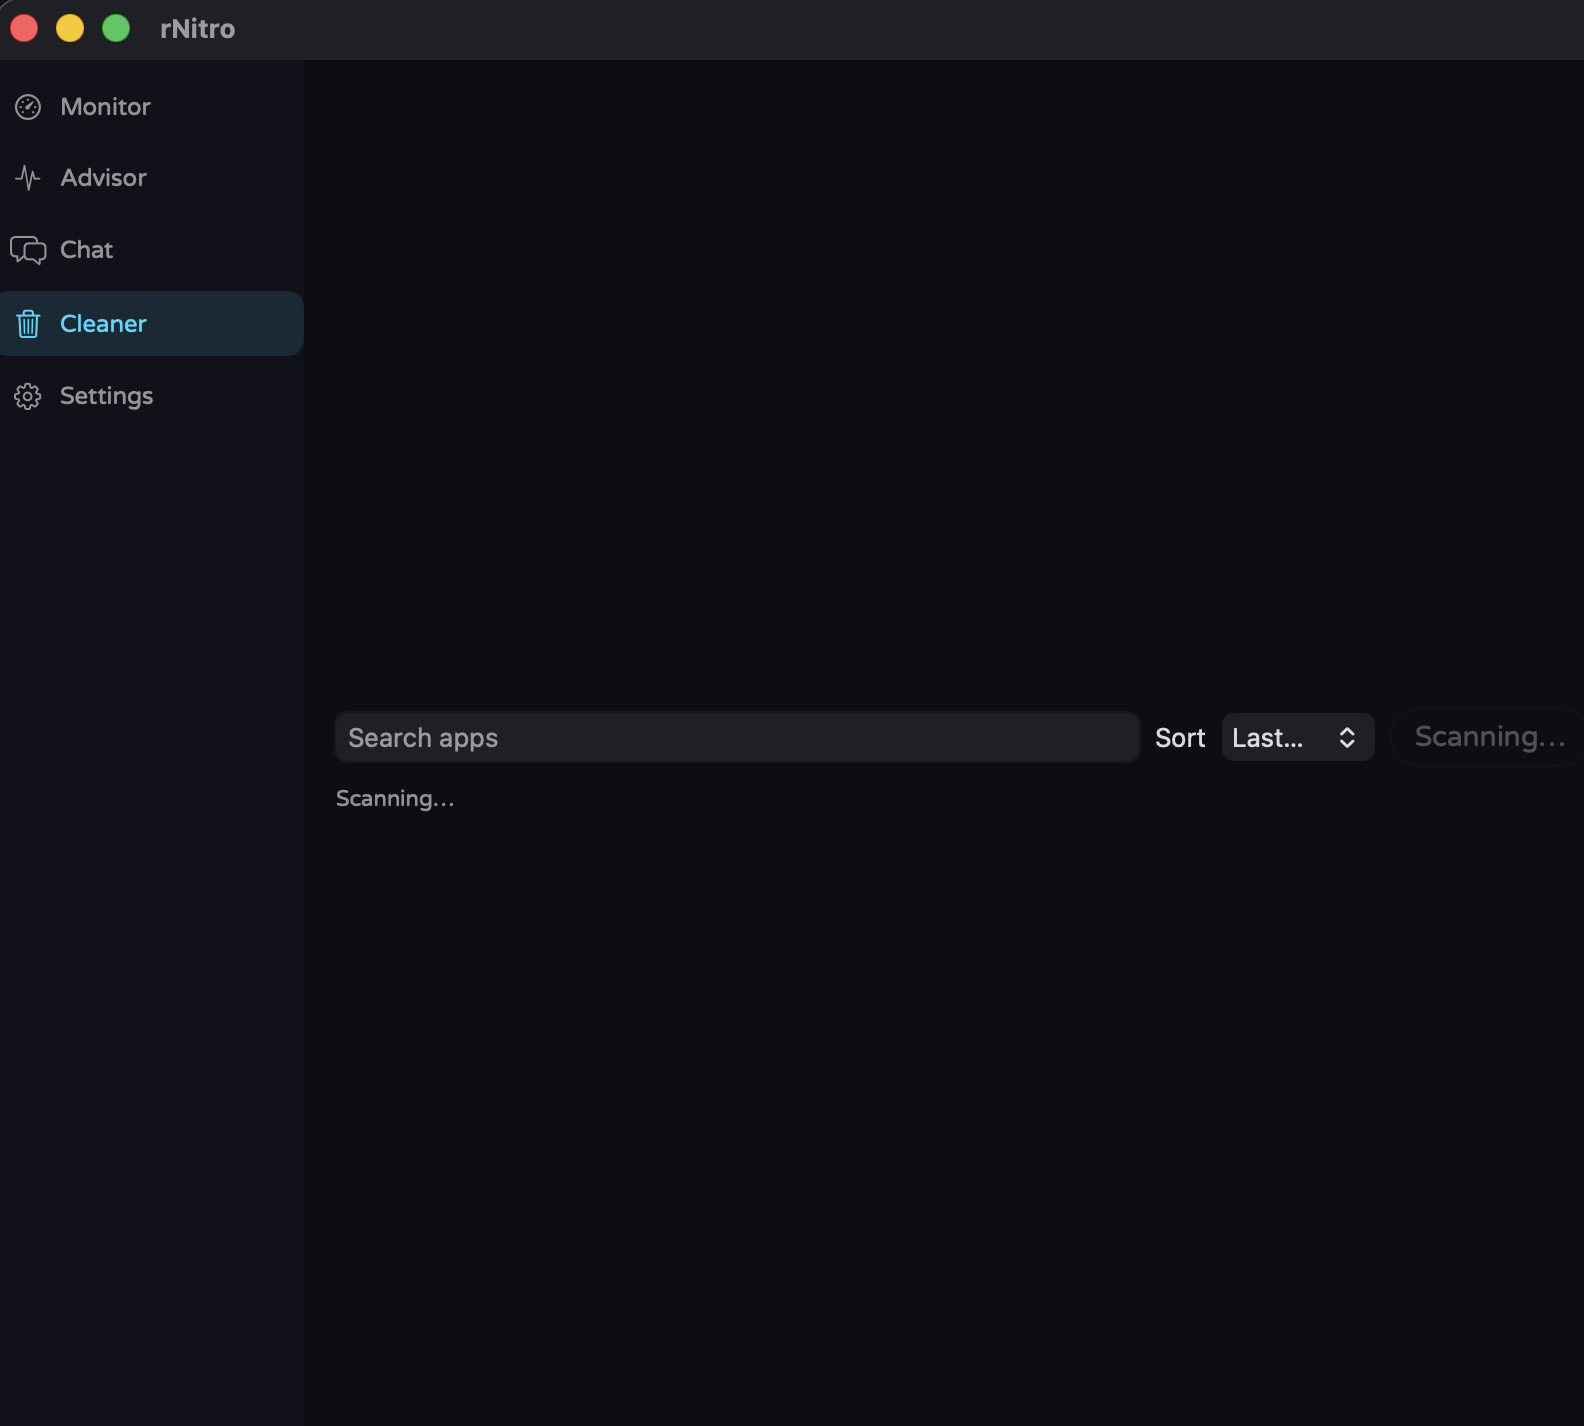
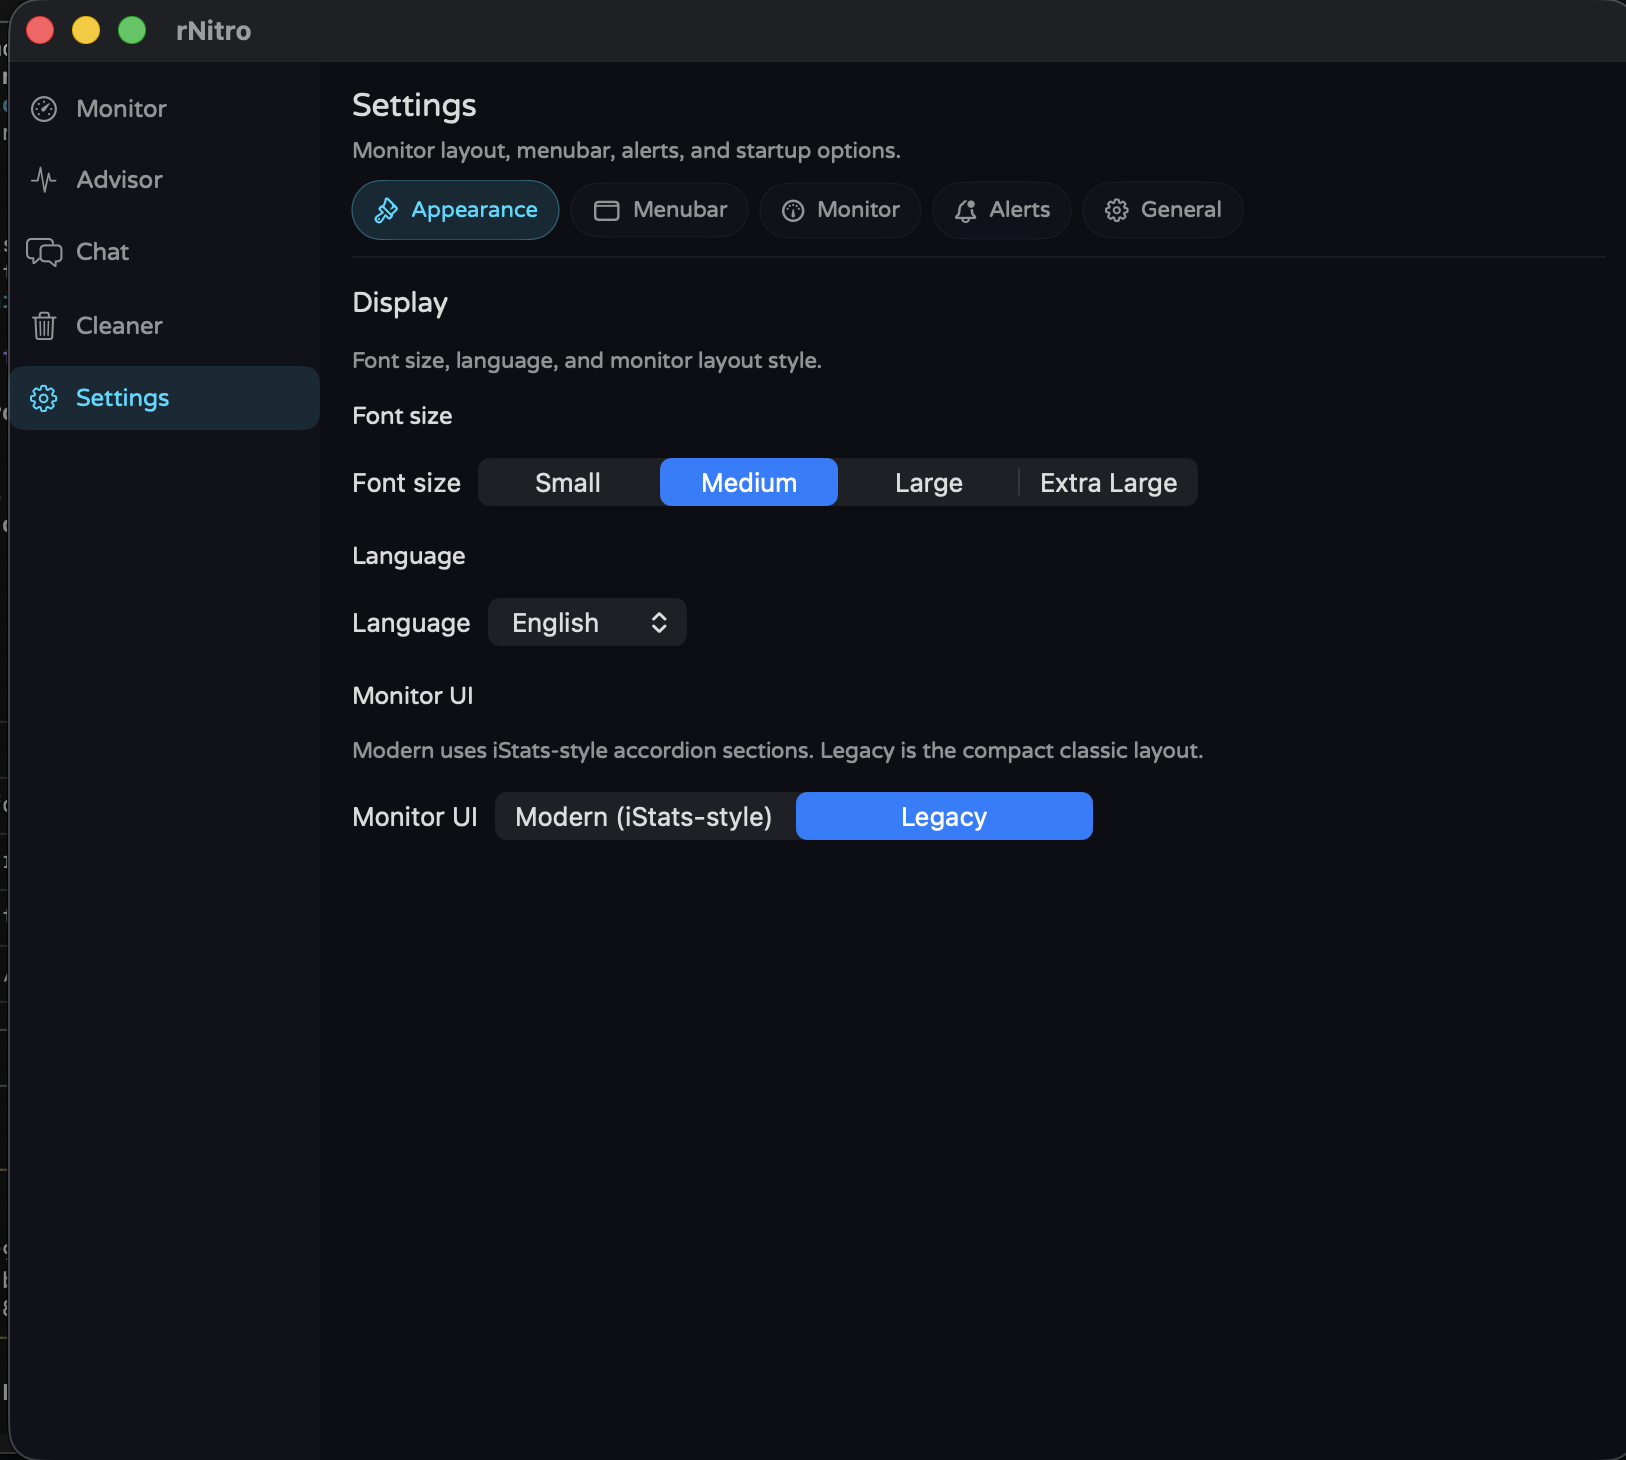
Fix screenshot labels: Advisor, Chat, Chat Config, App cleaner, Settings
Rename files to match UI content and update website + README captions.

diff --git a/index.html b/index.html
@@ -1419,31 +1419,31 @@
   <div class="shots">
     <p class="shots-kicker">macOS · Apple Silicon · Menu bar</p>
     <h2 class="shots-title">See rNitro on your Mac</h2>
-    <p class="shots-sub">Menu bar monitor with Advisors, Chat, Cleaner, Settings, and Benchmark — built for macOS 12+ on Apple Silicon.</p>
+    <p class="shots-sub">Menu bar monitor with Advisor, Chat, Chat Config, App cleaner, and Settings — built for macOS 12+ on Apple Silicon.</p>
     <figure class="shot-hero">
       <img src="screenshots/hero-monitor.png" alt="rNitro menu bar monitor showing CPU, temperature, memory, and battery" width="1200" height="800">
       <figcaption>Menu bar + Monitor — live CPU, temps, memory, battery, and more</figcaption>
     </figure>
     <div class="shot-grid">
       <figure class="shot-card">
-        <img src="screenshots/feature-advisors.png" alt="rNitro Advisors" loading="lazy" width="720" height="480">
-        <figcaption><strong>Advisors</strong> — System + AI advice with live stats</figcaption>
+        <img src="screenshots/feature-advisor.png" alt="rNitro Advisor" loading="lazy" width="720" height="480">
+        <figcaption><strong>Advisor</strong> — System Advisor with live stats and thresholds</figcaption>
       </figure>
       <figure class="shot-card">
         <img src="screenshots/feature-chat.png" alt="rNitro Chat" loading="lazy" width="720" height="480">
         <figcaption><strong>Chat</strong> — Bring-your-own AI providers</figcaption>
       </figure>
       <figure class="shot-card">
-        <img src="screenshots/feature-cleaner.png" alt="rNitro Cleaner" loading="lazy" width="720" height="480">
-        <figcaption><strong>Cleaner</strong> — Find large files and free space</figcaption>
+        <img src="screenshots/feature-chat-config.png" alt="rNitro Chat Config" loading="lazy" width="720" height="480">
+        <figcaption><strong>Chat Config</strong> — API keys and chat provider setup</figcaption>
+      </figure>
+      <figure class="shot-card">
+        <img src="screenshots/feature-app-cleaner.png" alt="rNitro App cleaner" loading="lazy" width="720" height="480">
+        <figcaption><strong>App cleaner</strong> — Find large files and free space</figcaption>
       </figure>
       <figure class="shot-card">
         <img src="screenshots/feature-settings.png" alt="rNitro Settings" loading="lazy" width="720" height="480">
-        <figcaption><strong>Settings</strong> — Appearance, alerts, general</figcaption>
-      </figure>
-      <figure class="shot-card">
-        <img src="screenshots/feature-benchmark.png" alt="rNitro Benchmark" loading="lazy" width="720" height="480">
-        <figcaption><strong>Benchmark</strong> — CPU score + stress test</figcaption>
+        <figcaption><strong>Settings</strong> — Appearance, menubar, alerts, general</figcaption>
       </figure>
     </div>
   </div>

diff --git a/sync-versions.py b/sync-versions.py
@@ -1267,11 +1267,11 @@ def js_settab_handlers() -> str:
 def screenshots_section(data: dict) -> str:
     """Product shots from real macOS captures (screenshots/)."""
     items = [
-        ("screenshots/feature-advisors.png", "Advisors", "System + AI advice with live stats"),
+        ("screenshots/feature-advisor.png", "Advisor", "System Advisor with live stats and thresholds"),
         ("screenshots/feature-chat.png", "Chat", "Bring-your-own AI providers"),
-        ("screenshots/feature-cleaner.png", "Cleaner", "Find large files and free space"),
-        ("screenshots/feature-settings.png", "Settings", "Appearance, alerts, general"),
-        ("screenshots/feature-benchmark.png", "Benchmark", "CPU score + stress test"),
+        ("screenshots/feature-chat-config.png", "Chat Config", "API keys and chat provider setup"),
+        ("screenshots/feature-app-cleaner.png", "App cleaner", "Find large files and free space"),
+        ("screenshots/feature-settings.png", "Settings", "Appearance, menubar, alerts, general"),
     ]
     cards = []
     for src, title, sub in items:
@@ -1285,7 +1285,7 @@ def screenshots_section(data: dict) -> str:
     return f"""  <div class="shots">
     <p class="shots-kicker">macOS · Apple Silicon · Menu bar</p>
     <h2 class="shots-title">See rNitro on your Mac</h2>
-    <p class="shots-sub">Menu bar monitor with Advisors, Chat, Cleaner, Settings, and Benchmark — built for macOS 12+ on Apple Silicon.</p>
+    <p class="shots-sub">Menu bar monitor with Advisor, Chat, Chat Config, App cleaner, and Settings — built for macOS 12+ on Apple Silicon.</p>
     <figure class="shot-hero">
       <img src="screenshots/hero-monitor.png" alt="rNitro menu bar monitor showing CPU, temperature, memory, and battery" width="1200" height="800">
       <figcaption>Menu bar + Monitor — live CPU, temps, memory, battery, and more</figcaption>

diff --git a/README.md b/README.md
@@ -10,13 +10,13 @@
   <img src="screenshots/hero-monitor.png" alt="rNitro menu bar monitor — CPU, temperature, memory, battery" width="720">
 </p>
 
-| Advisors | Chat | Cleaner |
+| Advisor | Chat | Chat Config |
 |:---:|:---:|:---:|
-| <img src="screenshots/feature-advisors.png" alt="System Advisors" width="240"> | <img src="screenshots/feature-chat.png" alt="AI Chat" width="240"> | <img src="screenshots/feature-cleaner.png" alt="App Cleaner" width="240"> |
+| <img src="screenshots/feature-advisor.png" alt="Advisor" width="240"> | <img src="screenshots/feature-chat.png" alt="Chat" width="240"> | <img src="screenshots/feature-chat-config.png" alt="Chat Config" width="240"> |
 
-| Settings | Benchmark |
+| App cleaner | Settings |
 |:---:|:---:|
-| <img src="screenshots/feature-settings.png" alt="Settings" width="240"> | <img src="screenshots/feature-benchmark.png" alt="Benchmark" width="240"> |
+| <img src="screenshots/feature-app-cleaner.png" alt="App cleaner" width="240"> | <img src="screenshots/feature-settings.png" alt="Settings" width="240"> |
 
 ### Quick install (Terminal)
 
